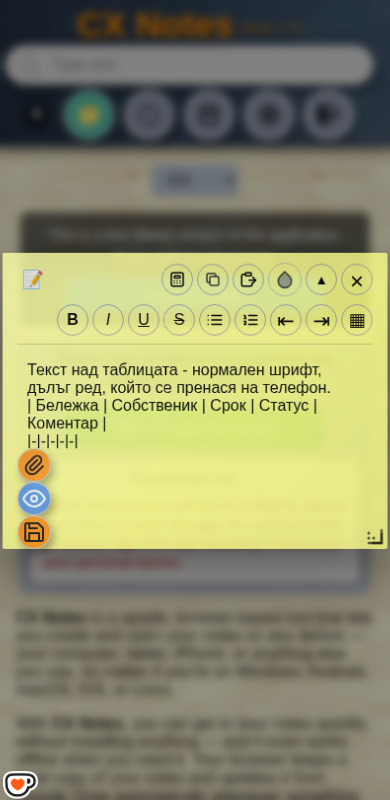
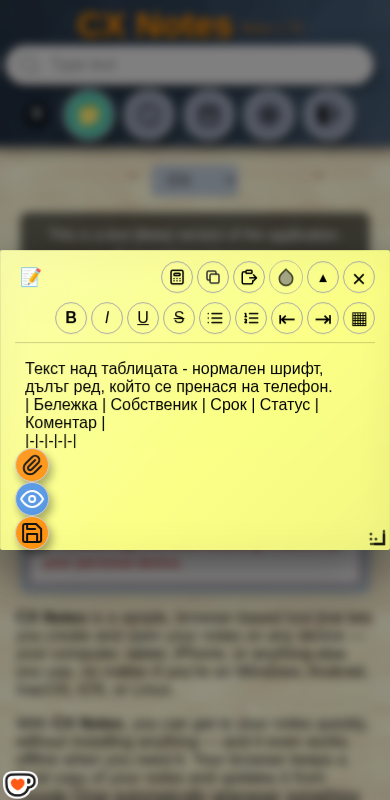
▦ полето с таблицата е редактируемо (textarea, записва се в бележката при всяка буква, без подравняване докато пишеш); второ натискане - Вариант А: маха само подпълването и тиретата, текстът в клетките остава както е написан + CACHE_NAME b1.73

Changed region(s): [[0.0, 0.3125, 1.0, 0.6875]]

diff --git a/uni/main.js b/uni/main.js
@@ -17426,7 +17426,7 @@ function mapOffsetThroughEdits(pos, edits) {
     return pos;
 }
 // One press of ▦ in the edit modal while no table field is open: align the tables it works on
-// (see selectMarkdownTablesForAlignment) and return where each of them now lies, so a read-only
+// (see selectMarkdownTablesForAlignment) and return where each of them now lies, so an editable
 // field can be shown in its place. Already aligned tables still get a field. No table -> nothing.
 function planMarkdownTableFieldsOpen(text, caret, all) {
     const tables = selectMarkdownTablesForAlignment(text, caret, all);
@@ -17442,9 +17442,13 @@ function planMarkdownTableFieldsOpen(text, caret, all) {
     ranges.sort((x, y) => x.start - y.start);
     return { text: result.text, edits: result.edits, tableCount: ranges.length, ranges };
 }
-// Second press: the tables that were shown in fields (given by their ranges) go back to compact.
+// Second press: the tables that were shown in fields (given by their ranges, which already hold
+// whatever was typed in the fields) go back to compact: only the padding spaces and the separator
+// dashes go, the cell text stays exactly as typed. A table no longer recognisable as one is left
+// as it is. Any table lying in a field's range counts (typing may move or split it).
 function planMarkdownTableFieldsClose(text, ranges) {
-    const tables = collectAlignableMarkdownTables(text).filter(t => ranges.some(r => r.start === t.start));
+    const inRange = (t, r) => t.start === r.start || (t.start < r.end && t.end > r.start);
+    const tables = collectAlignableMarkdownTables(text).filter(t => ranges.some(r => inRange(t, r)));
     if (!tables.length) return { text, edits: [], tableCount: 0 };
     const result = toggleMarkdownTablesAlignment(text, tables, 'compact');
     return { text: result.text, edits: result.edits, tableCount: tables.length };
@@ -17492,10 +17496,10 @@ function getNotePieceOffset(pieces, piece) {
 // --- end markdown table alignment ---
 
 // ▦ table fields. While they are open, the content editor is shown as a stack of pieces in its
-// place: text field (before) + read-only field with the aligned table + text field (after), and so
+// place: text field (before) + editable field with the aligned table + text field (after), and so
 // on for each table. #note-edit-textarea stays the one source of truth: it keeps the whole note
-// (hidden underneath), every edit in a text piece is written through to it and replayed as a single
-// edit at the caret, so handleEditInput, dataset.format, the backdrop, save and preview work as
+// (hidden underneath), every edit in a text piece or a table field is written through to it at once
+// and replayed as a single edit at the caret (the table text is never re-aligned while typing), so handleEditInput, dataset.format, the backdrop, save and preview work as
 // before. The fields live only in this editor's DOM: a newly opened editor starts without them.
 function getNoteTableSplit(textarea = document.getElementById('note-edit-textarea')) {
     return textarea?.parentElement?.querySelector(':scope > .note-table-split') || null;
@@ -17510,6 +17514,15 @@ function isNoteEditBodyField(el) {
 function fitNoteTableSplitText(ta) {
     ta.style.height = 'auto';
     ta.style.height = ta.scrollHeight + 'px';
+}
+// A table field is as tall as its rows plus the sideways scrollbar (CSS max-height caps it).
+function fitNoteTableField(ta) {
+    ta.style.height = 'auto';
+    ta.style.height = (ta.scrollHeight + ta.offsetHeight - ta.clientHeight) + 'px';
+}
+function fitNoteTableSplitPiece(piece) {
+    if (piece.kind === 'table') fitNoteTableField(piece.el);
+    else fitNoteTableSplitText(piece.el);
 }
 function getNoteBodyFormats() {
     const fmtStr = document.getElementById('modal-body')?.dataset.format;
@@ -17530,7 +17543,8 @@ function renderNoteTableSplitBackdrops(split) {
         renderNoteEditBackdrop(piece.backdrop, piece.value, local);
     });
 }
-// A text piece was edited: rebuild the whole note in the hidden textarea and replay it there.
+// A text piece or a table field was edited: rebuild the whole note in the hidden textarea and
+// replay it there.
 function onNoteTableSplitTextInput(split, piece) {
     const main = split._main;
     piece.value = piece.el.value;
@@ -17542,11 +17556,12 @@ function onNoteTableSplitTextInput(split, piece) {
     main.dispatchEvent(new Event('input', { bubbles: true }));
     split._syncing = false;
     split._value = full;
-    fitNoteTableSplitText(piece.el);
+    fitNoteTableSplitPiece(piece);
     renderNoteTableSplitBackdrops(split);
 }
 // Something else changed the hidden textarea (paste button, attachment link...). An edit inside
-// one text piece is carried over; anything touching a table closes the fields (text kept as is).
+// one piece (text or table field) is carried over; one spanning pieces closes the fields. Either
+// way nothing typed is lost: it is already in the hidden textarea.
 function onNoteTableSplitMainInput(split) {
     if (split._syncing) return;
     const main = split._main;
@@ -17559,7 +17574,7 @@ function onNoteTableSplitMainInput(split) {
     while (s < oldText.length - p && s < newText.length - p && oldText[oldText.length - 1 - s] === newText[newText.length - 1 - s]) s++;
     const oldEnd = oldText.length - s;
     const piece = split._pieces.find(x => {
-        if (x.kind !== 'text') return false;
+        if (x.kind === 'sep') return false;
         const off = getNotePieceOffset(split._pieces, x);
         return p >= off && oldEnd <= off + x.value.length;
     });
@@ -17576,7 +17591,7 @@ function onNoteTableSplitMainInput(split) {
     if (caret >= 0 && caret <= piece.value.length) {
         piece.el.setSelectionRange(caret, Math.min(piece.value.length, main.selectionEnd - off));
     }
-    fitNoteTableSplitText(piece.el);
+    fitNoteTableSplitPiece(piece);
     renderNoteTableSplitBackdrops(split);
 }
 function openNoteTableSplit(main, ranges) {
@@ -17594,13 +17609,19 @@ function openNoteTableSplit(main, ranges) {
     split._pieces.forEach(piece => {
         if (piece.kind === 'sep') return;
         if (piece.kind === 'table') {
-            const field = document.createElement('div');
+            // Editable like the text pieces: monospace, no wrapping, sideways scroll. Enter adds a
+            // line, Tab moves on to the next part of the note (browser default).
+            const field = document.createElement('textarea');
             field.className = 'note-table-field';
-            field.tabIndex = 0;
-            field.setAttribute('role', 'textbox');
-            field.setAttribute('aria-readonly', 'true');
-            field.setAttribute('aria-multiline', 'true');
-            field.textContent = piece.value;
+            field.value = piece.value;
+            field.wrap = 'off';
+            field.rows = 1;
+            field.spellcheck = false;
+            field.setAttribute('autocapitalize', 'off');
+            field.setAttribute('autocomplete', 'off');
+            field.setAttribute('autocorrect', 'off');
+            field.addEventListener('input', () => onNoteTableSplitTextInput(split, piece));
+            ['keyup', 'mouseup', 'touchend', 'focus'].forEach(type => field.addEventListener(type, updateTableAlignButtonState));
             piece.el = field;
             split.appendChild(field);
             return;
@@ -17637,7 +17658,7 @@ function openNoteTableSplit(main, ranges) {
     // A field is as tall as its table needs, up to about half of the modal.
     const fitFields = () => {
         const limit = Math.round((modalBox ? modalBox.clientHeight : split.clientHeight * 2) / 2);
-        fields.forEach(p => { p.el.style.maxHeight = limit + 'px'; });
+        fields.forEach(p => { p.el.style.maxHeight = limit + 'px'; fitNoteTableField(p.el); });
     };
     const fitAll = () => texts.forEach(p => fitNoteTableSplitText(p.el));
     fitFields();
@@ -17695,7 +17716,7 @@ function closeNoteTableSplit(main) {
     split._pieces.forEach(piece => {
         const off = getNotePieceOffset(split._pieces, piece);
         if (piece.kind === 'table') ranges.push({ start: off, end: off + piece.value.length });
-        if (piece.el && piece.el === active && piece.kind === 'text') {
+        if (piece.el && piece.el === active && piece.kind !== 'sep') {
             sel = [off + active.selectionStart, off + active.selectionEnd];
         }
     });
@@ -17747,8 +17768,9 @@ function applyTableEditsToNoteTextarea(textarea, edits, text) {
 }
 
 // One press of ▦. Fields closed: align the table under the caret (all = true for hold /
-// Ctrl/⌘+click: every table in the note) and show each in a read-only field in its place.
-// Fields open: close them all and bring those tables back to the compact form.
+// Ctrl/⌘+click: every table in the note) and show each in an editable field in its place.
+// Fields open: close them all and bring those tables back to the compact form (what was typed in
+// the fields is already in the note; only padding and separator dashes are removed).
 function applyMarkdownTableAlignment(all = false) {
     const textarea = document.getElementById('note-edit-textarea');
     if (!textarea) return;
@@ -17863,7 +17885,7 @@ function createModalEditToolbar(modalContentBox) {
     });
     addButton({
         label: '▦',
-        title: _('tableAlignTooltip') || 'Align the table under the caret and show it in a read-only field in its place (no wrapping, scrolls sideways) · press again: close the field and compact the table · Ctrl/⌘+click or hold: all tables',
+        title: _('tableAlignTooltip') || 'Align the table under the caret and show it in its place in a field you can type in (no wrapping, scrolls sideways) · press again: close the field and compact the table · Ctrl/⌘+click or hold: all tables',
         className: 'is-table',
         action: (e) => applyMarkdownTableAlignment(!!(e && (e.ctrlKey || e.metaKey))),
         onLongPress: () => applyMarkdownTableAlignment(true)

diff --git a/.bolter/check/tables.js b/.bolter/check/tables.js
@@ -115,4 +115,32 @@ for (const t of ['no tables here', fence, braces, esc, '']) {
   const o = open(t, 1, false), oa = open(t, 1, true);
   ok(o.tableCount === 0 && oa.tableCount === 0 && o.text === t && oa.text === t && !o.edits.length, 'fields: no table -> nothing: ' + JSON.stringify(t.slice(0, 12)));
 }
+// --- editable field (b1.73): the second press after typing = Variant A, compact as today ---
+{
+  const before = 'Над таблицата', after = 'Под таблицата';
+  const o = open(before + '\n' + cs + '\n' + after, before.length + 3, false);
+  const r = o.ranges[0];
+  // typed in the field: a longer cell (alignment now broken), a word with two inner spaces, a new short row
+  let tbl = o.text.slice(r.start, r.end)
+    .replace('| note 1 |', '| note 1 и още думи |')
+    .replace('| Text 2 |', '| Text  две |') + '\n| нов | ред |';
+  const edited = o.text.slice(0, r.start) + tbl + o.text.slice(r.end);
+  const c = api.planMarkdownTableFieldsClose(edited, [{ start: r.start, end: r.start + tbl.length }]);
+  const want = before + '\n| Col1 header | Col 2 | Col 3 |\n| - | - | - |\n| Text 1 | Test | note 1 и още думи |\n| note 2 | Text  две | Test |\n| нов | ред |\n' + after;
+  ok(c.text === want, 'edited field: 2nd press removes only padding and dashes, typed cell text word for word', c.text);
+  ok(c.edits.every(e => /^[ \-|]*$/.test(e.text) && /^[ \-|]*$/.test(edited.slice(e.start, e.end))), 'edited field: every close edit only touches spaces / dashes / outer |');
+  ok(!api.areAllMarkdownTablesAligned(c.text), 'edited field: no re-alignment on close (not Variant B/C)');
+  // blank line typed at the top of the field: the table moved inside the range, still compacted
+  const moved = o.text.slice(0, r.start) + '\n' + o.text.slice(r.start);
+  const cm = api.planMarkdownTableFieldsClose(moved, [{ start: r.start, end: r.end + 1 }]);
+  ok(cm.tableCount === 1 && cm.text === before + '\n\n' + dense + '\n' + after, 'edited field: table moved down inside the field still compacts');
+  // separator row deleted: no longer a table -> left exactly as typed
+  const broken = o.text.replace(/\n\| -+ \| -+ \| -+ \|/, '');
+  const cb = api.planMarkdownTableFieldsClose(broken, [{ start: r.start, end: r.end - 33 }]);
+  ok(cb.tableCount === 0 && cb.text === broken, 'edited field: broken table left as typed');
+  // a table outside the field is not touched on close
+  const two = o.text + '\n' + t2;
+  const c2 = api.planMarkdownTableFieldsClose(two, o.ranges);
+  ok(c2.text === before + '\n' + dense + '\n' + after + '\n' + t2, 'edited field: table outside the field untouched');
+}
 console.log(`${n - fails}/${n} passed`); process.exit(fails ? 1 : 0);

diff --git a/uni/style.css b/uni/style.css
@@ -3686,9 +3686,13 @@ body.selection-locked .note.active-selection-note .note-content {
     overflow: hidden;
 }
 
-/* Modelled on .code-block: no wrapping, sideways scroll, monospace, read-only. */
+/* Modelled on .code-block: no wrapping, sideways scroll, monospace. A textarea you type in. */
 .note-table-field {
     display: block;
+    width: calc(100% - 20px);
+    min-height: 0;
+    resize: none;
+    color: inherit;
     margin: 6px 10px;
     max-height: 50%;
     padding: 8px;

diff --git a/uni/sw.js b/uni/sw.js
@@ -1,4 +1,4 @@
-const CACHE_NAME = 'cx-notes-b1.72';
+const CACHE_NAME = 'cx-notes-b1.73';
 const OFFLINE_PAGE = 'index.html';
 const ASSETS_TO_CACHE = [
   './',
